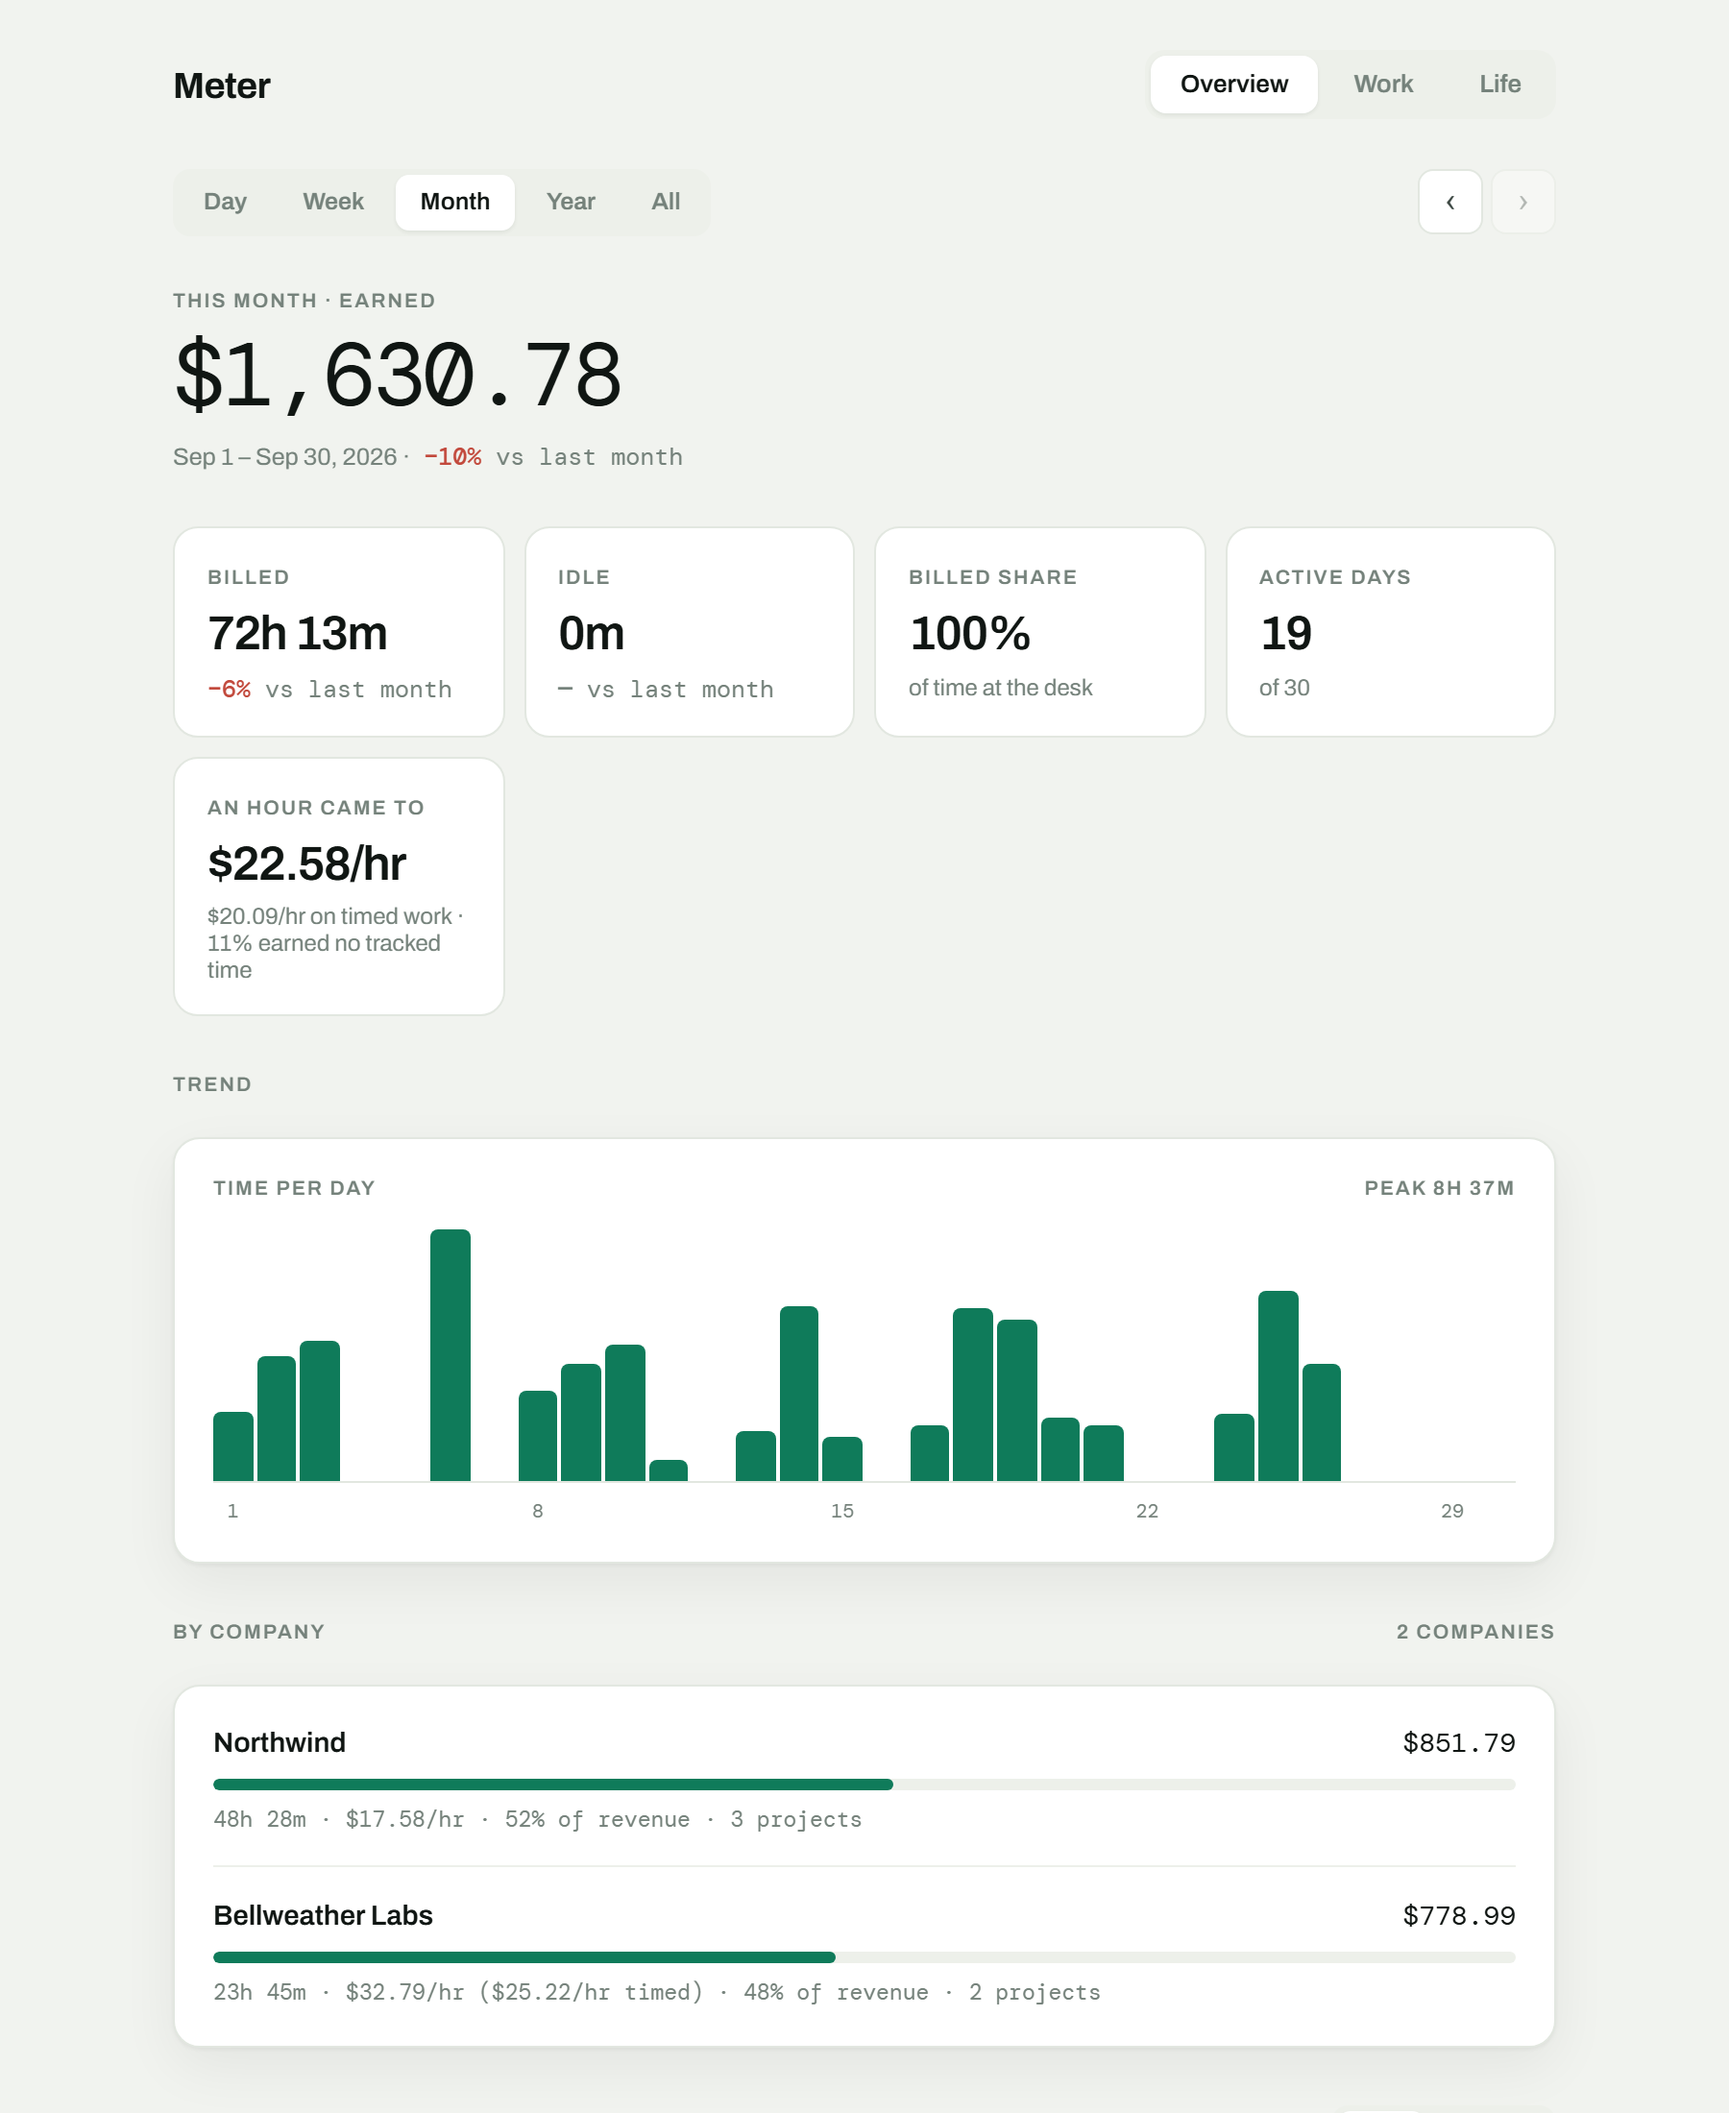
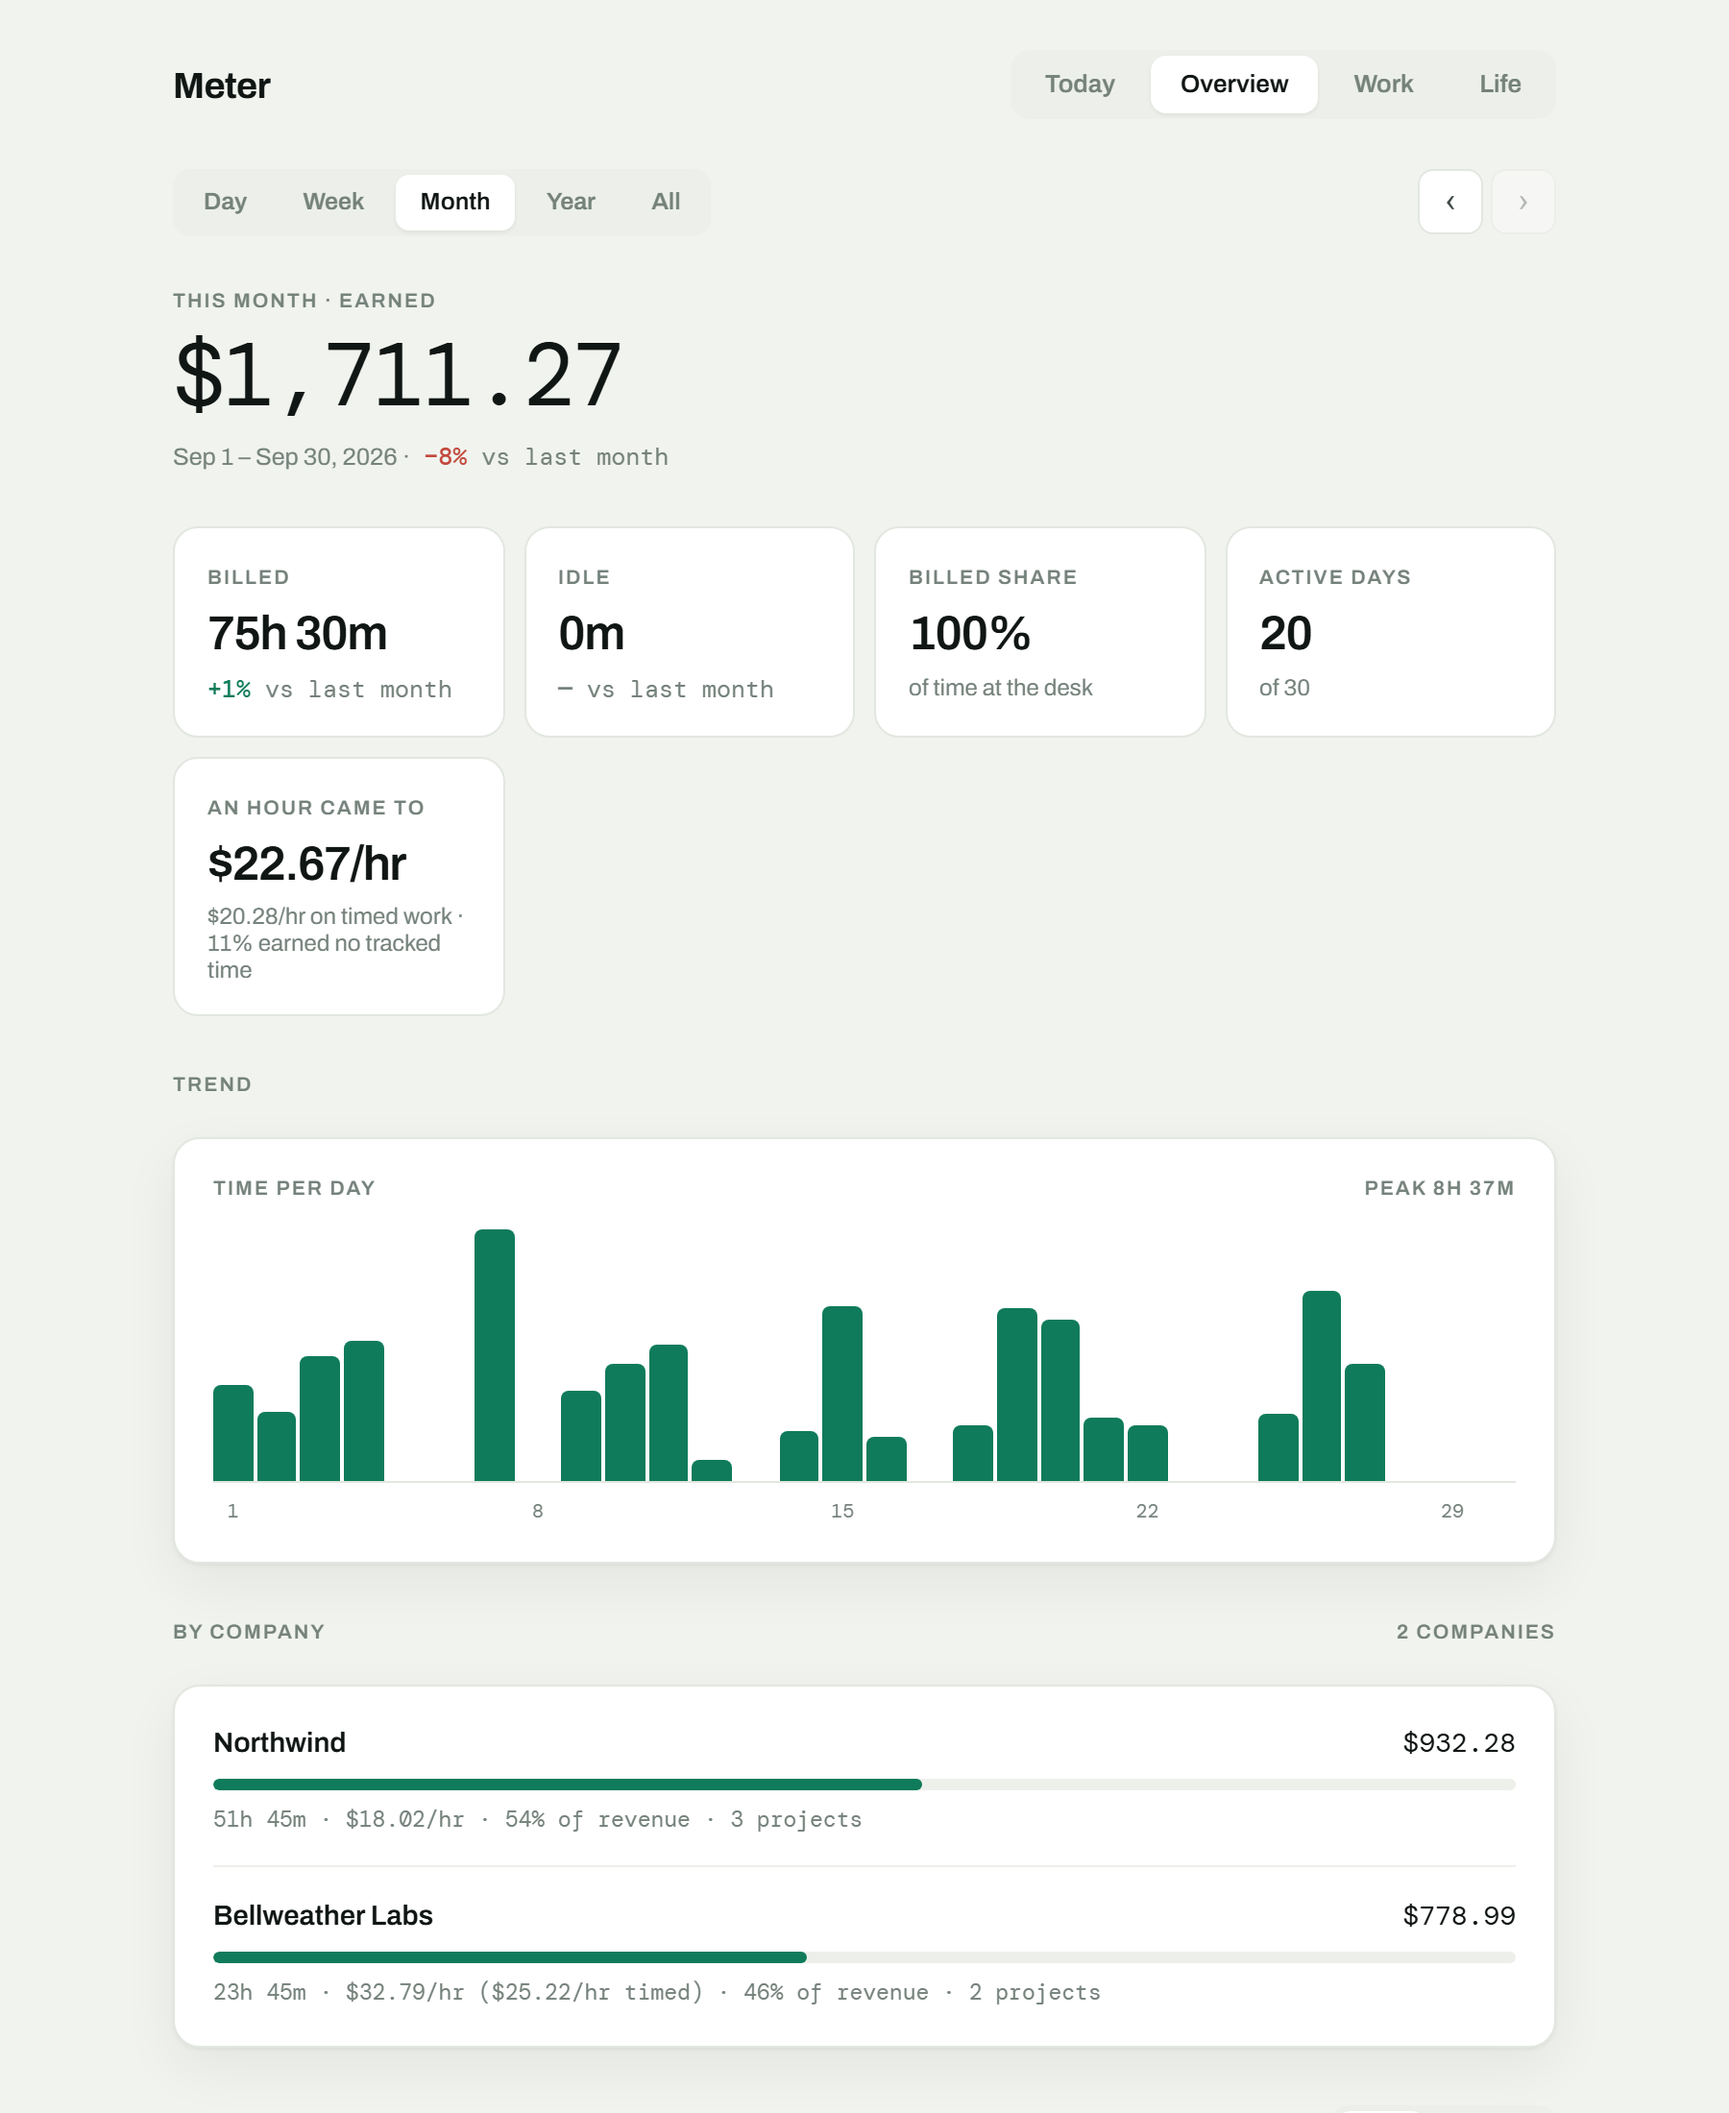
Repoint the screenshots at the screens they are named after
The app opens on Today now, and two recipes were written when it opened on
the Overview: they navigated nowhere and photographed whatever was in front
of them. `overview.png` and `phone.png` were both pictures of the Today tab,
under captions promising a month's earnings.

Nothing failed, which is the point worth recording — a screenshot recipe has
no assertion in it, so drift of this kind is silent and only a person looking
at the output catches it. Both now click through to the Overview, the note in
docs/images says to expect exactly this, and Today has a shot of its own in
the README since it is the first thing anyone sees.

diff --git a/docs/images/README.md b/docs/images/README.md
@@ -13,6 +13,7 @@ live in [`scripts/shots.mjs`](../../scripts/shots.mjs).
 | File | What it shows |
 | --- | --- |
 | `running.gif` | A session running, with the elapsed time and the money both climbing. |
+| `today.png` | The screen the app opens on: what to start again, what today came to, and the days behind it. |
 | `projects.png` | The Work tab: every project's rate, hours and earnings under a running total. |
 | `overview.png` | The Overview on a month — headline, hours, effective rate, a bar per day, a split by client. |
 | `project.png` | A piece-rate project, quoting a price per accepted item and listing what was accepted. |
@@ -30,6 +31,11 @@ a temp directory, on a different origin from any copy of Meter you actually
 use, so the seeded storage cannot reach yours.
 
 ## When a shot comes out wrong
+
+The app opens on **Today**, so every recipe about another screen clicks its
+tab first. That is the drift to expect here: a shot that used to land on the
+right screen by default quietly starts photographing the landing one instead,
+and nothing fails — it just captures the wrong thing. Look at what came out.
 
 `node scripts/shots.mjs --probe` prints what is on screen at each step — tabs,
 cards, buttons, prompts — instead of capturing anything. That is usually enough

diff --git a/README.md b/README.md
@@ -15,6 +15,8 @@ Drive, not to anyone else's machine.
 
 ![A session running: the elapsed time and the money both climbing in real time, in the meter face and in the bar that sits above every screen](docs/images/running.gif)
 
+![The screen it opens on: what today has come to per project, one-click restarts of the last few things you ran, and every day there was work](docs/images/today.png)
+
 | Every project at once | A month, across all of them |
 | --- | --- |
 | ![The project list: each project's rate, hours and earnings, under a running total](docs/images/projects.png) | ![The overview: a month's earnings, hours, effective hourly rate, a bar per day, and a breakdown by client](docs/images/overview.png) |
